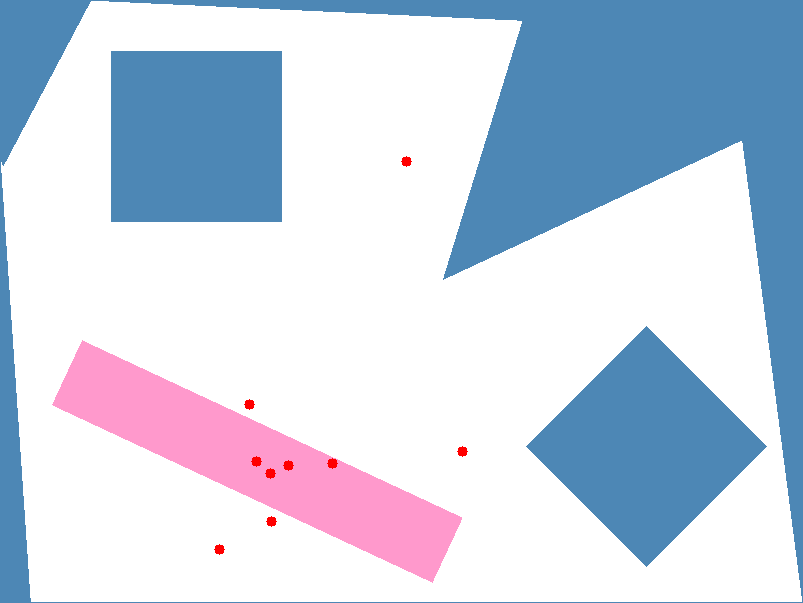
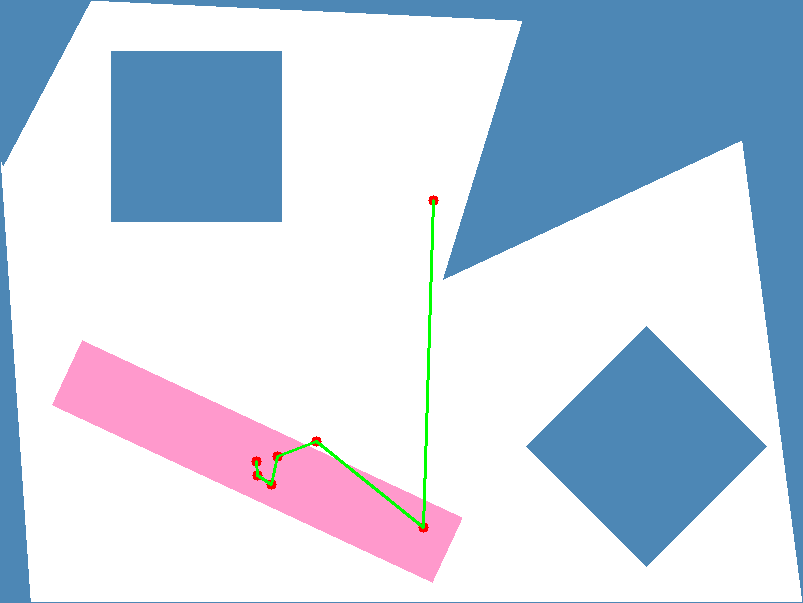
Updated save output func

diff --git a/visualisation/util/rrt/drawing.py b/visualisation/util/rrt/drawing.py
@@ -41,9 +41,15 @@ def loadObstacles(image_path):
 def get_path(parent, output_path):
     curr_path = []
     current = goalPos
+    # Follow the parent nodes until the start position is reached:
     while parent[goalPos] and current is not None:
         cv2.circle(obstaclesSurface, current, 5, (0, 0, 255), -1)
         curr_path.append(current)
         current = parent[current]
+
+    # Draw the path:
+    for i in range(len(curr_path) - 1):
+        cv2.line(obstaclesSurface, curr_path[i], curr_path[i + 1], (0, 255, 0), 2)
+
     cv2.imwrite(output_path.replace(".png", '-output.png'), obstaclesSurface)
     return curr_path
